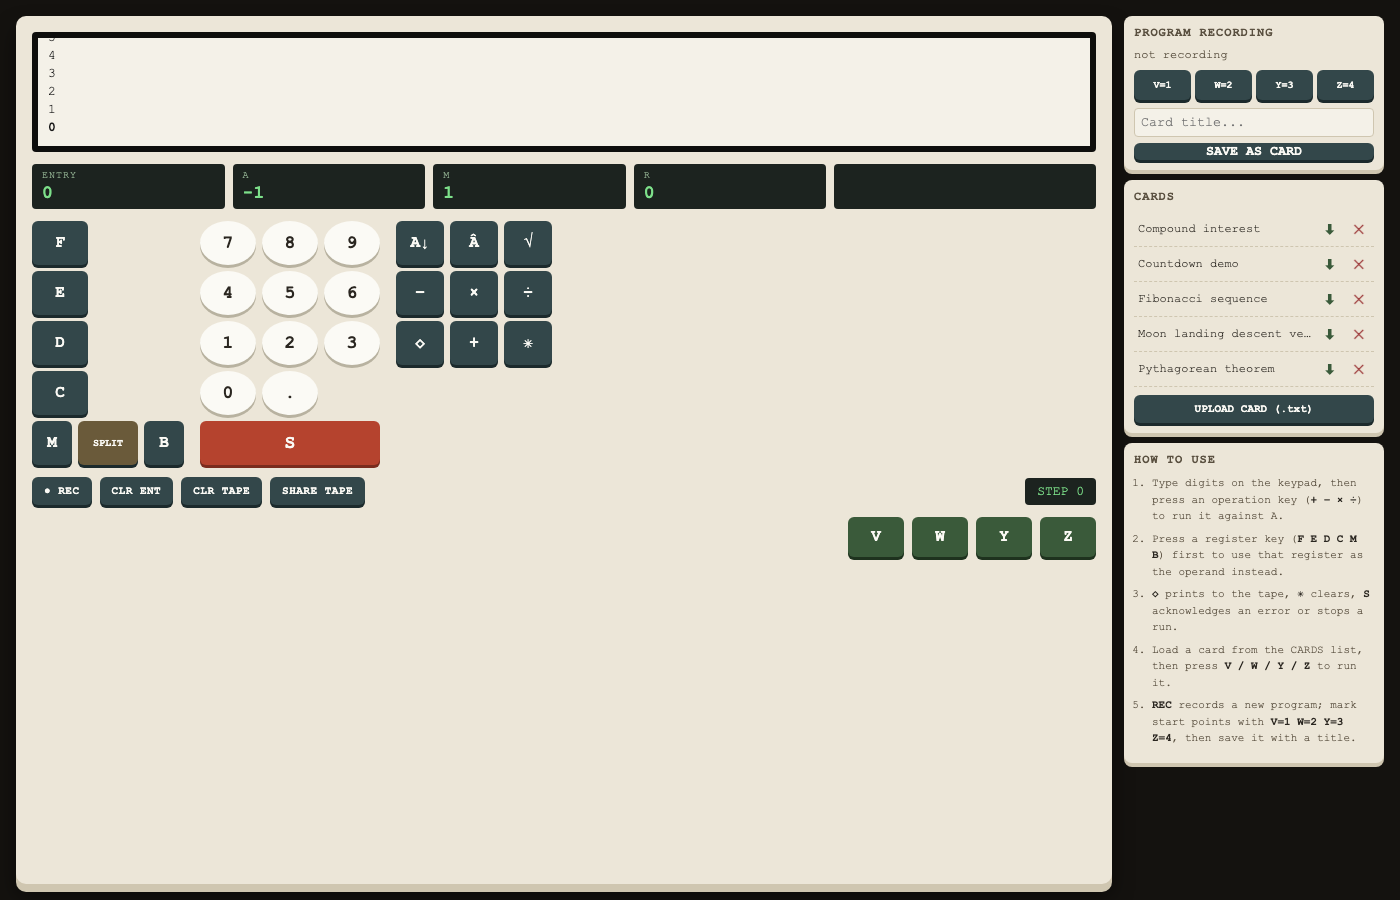
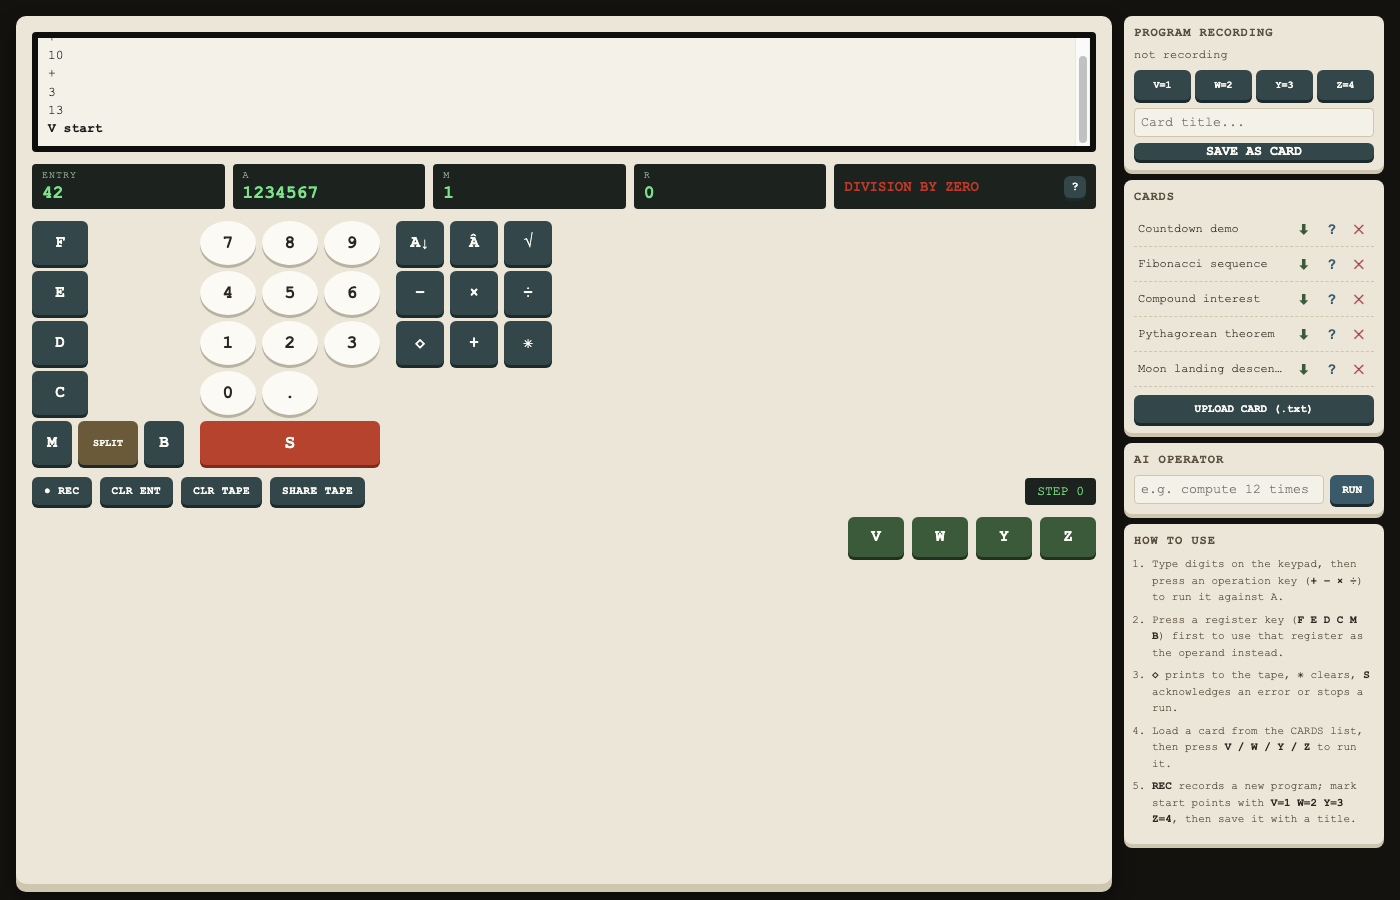
Update README with AI Operator/Assistant docs and new screenshot
Documents the new arduino:llm Brick features (AI Operator, AI
Assistant) and replaces the screenshot to show them in the UI.

diff --git a/README.md b/README.md
@@ -1,25 +1,27 @@
 # Programma Q - A Programma 101 Emulator
 
 A web-based emulator of the Olivetti Programma 101, the 1965 programmable desktop
-calculator/proto-PC. Built on the official `arduino:web_ui` and `arduino:dbstorage_sqlstore`
-Bricks, with keyboard-click sound effects on a physical Modulino Buzzer and the Olivetti/Elea
-logos animating on the UNO Q's onboard LED matrix.
+calculator/proto-PC. Built on the official `arduino:web_ui`, `arduino:dbstorage_sqlstore`, and
+`arduino:llm` Bricks, with keyboard-click sound effects on a physical Modulino Buzzer and the
+Olivetti/Elea logos animating on the UNO Q's onboard LED matrix.
 
 ![Programma Q UI](docs/screenshot.png)
 
-*The panel mid-way through the bundled "Countdown demo" card: the tape shows the counted-down
-values ending at `0`, register A holds `-1` (the loop's final decrement past zero) and M holds `1`
-(the step size).*
+*A blocked `DIVISION BY ZERO` error, with the "?" button ready to ask the AI Assistant to explain
+it in plain English, and the AI OPERATOR panel in the side column ready to take a natural-language
+request and drive the keyboard itself.*
 
 ## Running it
 
 Deploy with the Arduino App CLI like any other app Brick bundle (`app.yaml` declares the
-`arduino:web_ui` and `arduino:dbstorage_sqlstore` Bricks and exposes port 7000). Once deployed,
-open the app's URL (`http://<device-ip>:7000/`) in a browser to use it. Attach a Modulino Buzzer
-to the paired MCU for keyboard-click, error, and printer-chatter sounds — the app runs fine
-without one, silently skipping the tones. The onboard LED matrix shows the Olivetti logo while
-idle and crossfades into a pulsing Elea logo while a program (`V`/`W`/`Y`/`Z`) is running,
-degrading to no matrix updates the same way the buzzer does if the MCU isn't attached.
+`arduino:web_ui`, `arduino:dbstorage_sqlstore`, and `arduino:llm` Bricks, and exposes port 7000).
+Once deployed, open the app's URL (`http://<device-ip>:7000/`) in a browser to use it. Attach a
+Modulino Buzzer to the paired MCU for keyboard-click, error, and printer-chatter sounds — the app
+runs fine without one, silently skipping the tones. The onboard LED matrix shows the Olivetti logo
+while idle and crossfades into a pulsing Elea logo while a program (`V`/`W`/`Y`/`Z`) is running,
+degrading to no matrix updates the same way the buzzer does if the MCU isn't attached. The AI
+Operator and Assistant (below) likewise degrade to disabled/unavailable if the `arduino:llm` Brick
+isn't attached or fails to initialize.
 
 ## User guide
 
@@ -103,6 +105,21 @@ recording a new one) for anyone using the panel without this README open.
 **CLR TAPE** clears the tape display. **SHARE TAPE** downloads the current tape's full contents
 as a text file.
 
+### AI Operator and Assistant
+
+Two AI features run on the on-device `arduino:llm` Brick, and both disable themselves gracefully
+(showing as unavailable) if that Brick isn't attached or fails to start:
+
+- **AI Operator** (side panel) takes a natural-language request — e.g. "compute 12 times 7" —
+  and drives it to completion by pressing real keys one at a time, exactly like a human operator
+  would: it can only take the same actions available on the keyboard, so it can press a wrong key
+  (recoverable, just like a human mistake) but it can never fabricate an answer that bypasses the
+  emulator's real arithmetic. Type a request into the box and press **RUN**; the reply area below
+  shows the full trace of keys it pressed and what happened after each one.
+- **AI Assistant** ("?" buttons) explains things in plain English on demand: the "?" next to the
+  error readout explains why the machine is currently blocked and what to try next, and the "?"
+  next to each saved card in the CARDS list explains what that program computes and how.
+
 ## The bundled "Countdown demo" card
 
 Every fresh install seeds one demo card, `Countdown demo`, matching the classic demo EMU101
@@ -120,8 +137,7 @@ To run it from a clean start: type `1`, press `+` (A = 1), press `Â` with **M**
 A = 0), type your starting number (e.g. `10`), press `+` (A = 10), load the "Countdown demo" card
 from the CARDS panel if it isn't already loaded, and press **V**. The tape prints each value
 counting down from your starting number to `0`, then one more decrement pushes A negative, the
-conditional jump fires, and the program stops — leaving A at `-1` and M at `1`, exactly as shown
-in the screenshot above.
+conditional jump fires, and the program stops — leaving A at `-1` and M at `1`.
 
 ## Bundled example cards
 
@@ -168,6 +184,16 @@ the expected tape output, and a short explanation of how the program works.
   whether the emulator is idle or a program is running. The idle mode shows a static, downsampled
   8x13 rendering of the Olivetti logo; the calculating mode crossfades into the Elea logo and
   pulses its brightness while active.
+- **AI agents.** `python/agents/operator.py` and `python/agents/assistant.py` both run on the
+  on-device `arduino:llm` Brick. The AI Operator's tool-calling functions dispatch through the
+  exact same validated key-press handlers `python/main.py` exposes to a human's browser clicks, so
+  the LLM is never in the calculation path — it can only press a (recoverable) wrong key, never
+  produce a wrong answer that bypasses `engine.cpu.Machine`'s real checks; since the Brick's
+  tool-calling invokes at most one tool per call, `OperatorAgent.run()` drives its own multi-step
+  call/observe loop. The Assistant is purely explanatory (plain chat, no tools) and never mutates
+  machine/tape/card state. Both run on background threads guarded by `python/main.py`'s
+  `_state_lock`, replying over a separate `"ai_reply"` broadcast so they don't block a human still
+  clicking keys on the same session.
 
 ## License
 